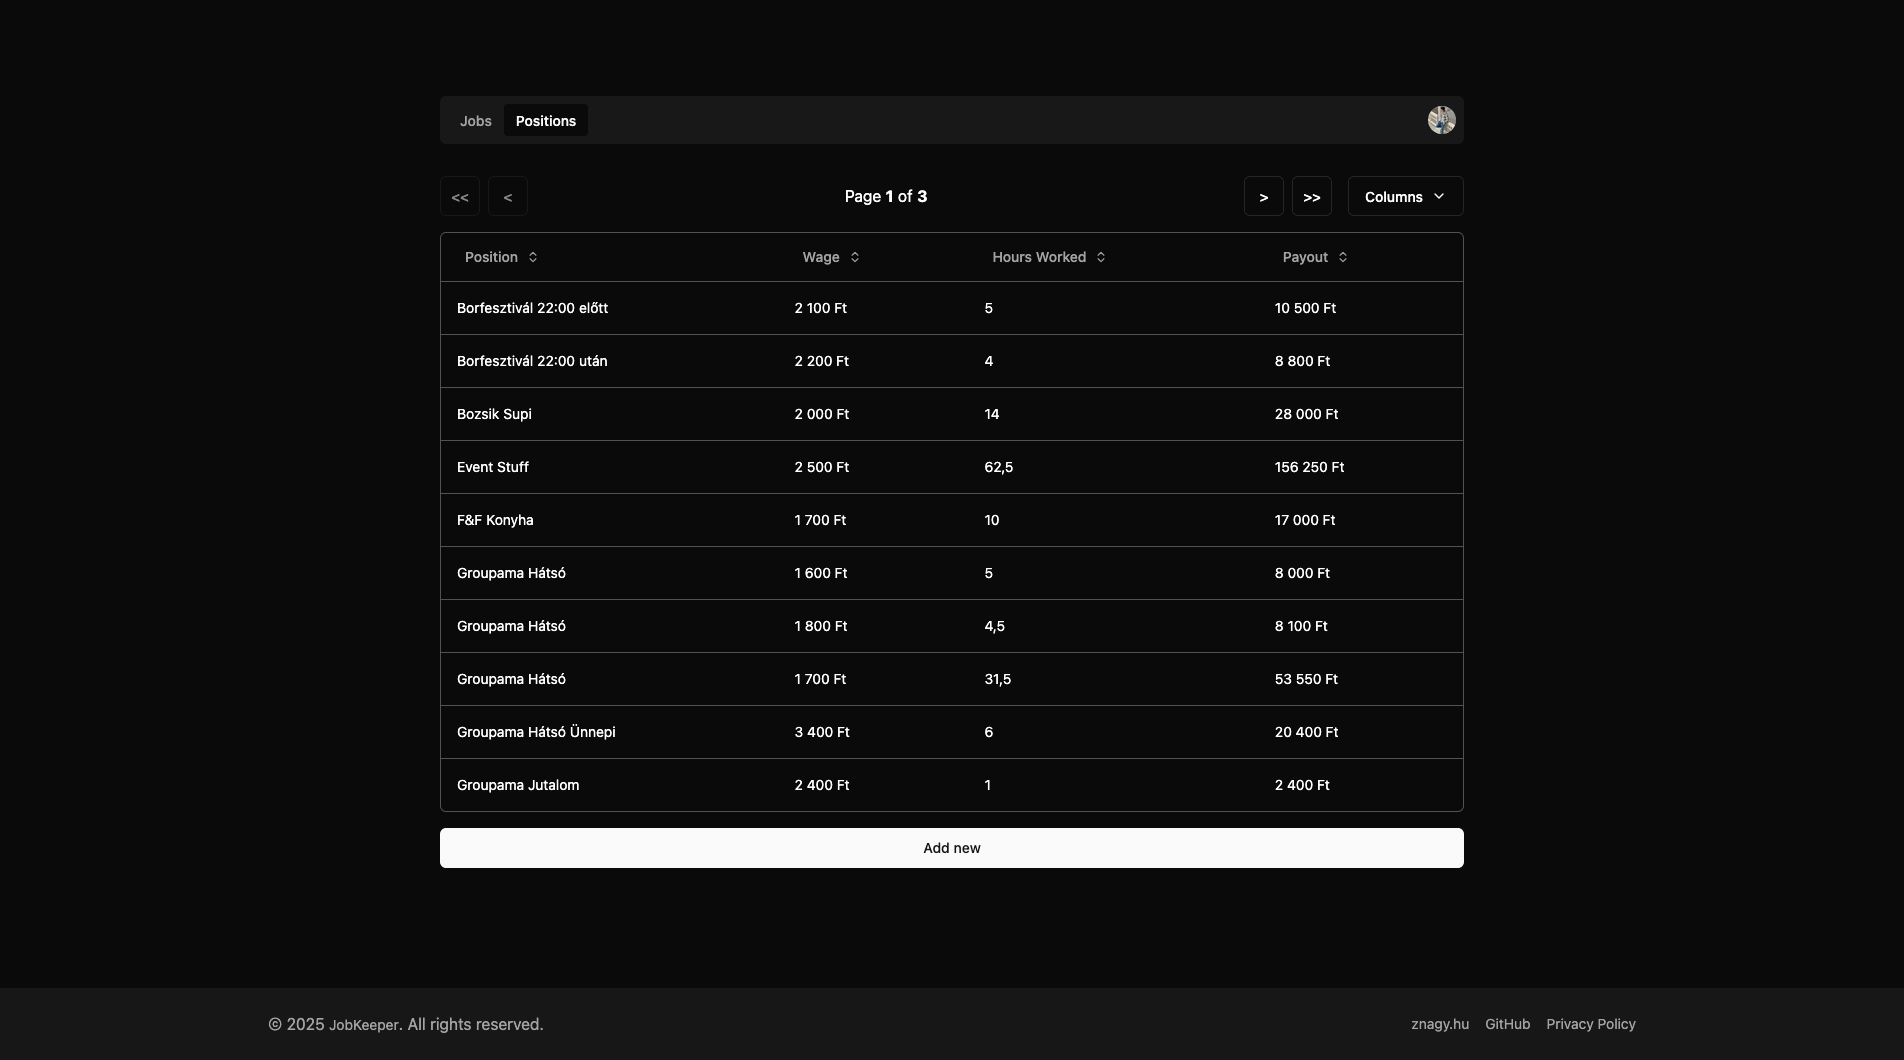
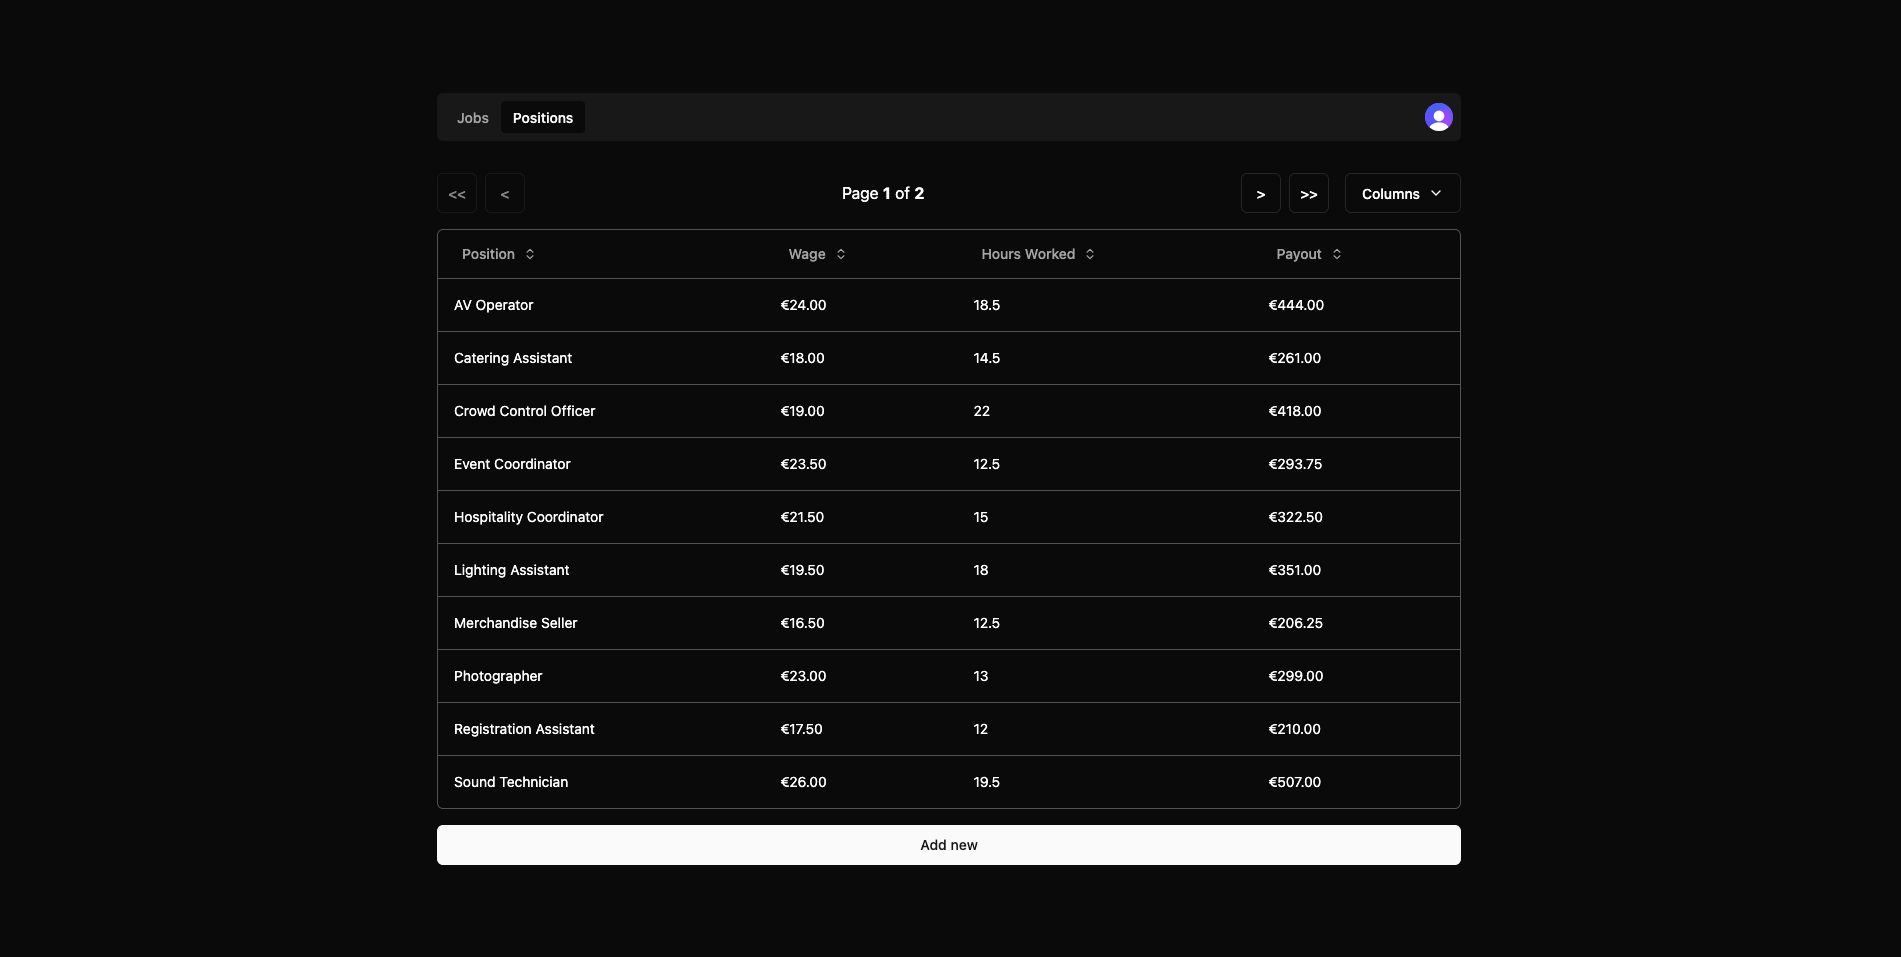
add preview images with mock data and test user

diff --git a/web/src/app/home/dashboard-preview.tsx b/web/src/app/home/dashboard-preview.tsx
@@ -30,7 +30,7 @@ export const DashboardPreview: React.FC = () => (
               alt="JobKeeper Jobs Dashboard showing a table with job entries including dates, locations, events, positions, wages, hours worked, and payouts"
               width={1600}
               height={900}
-              className="h-auto w-full"
+              className="aspect-video w-full"
               priority
             />
           </div>
@@ -53,7 +53,7 @@ export const DashboardPreview: React.FC = () => (
               alt="JobKeeper Positions Dashboard displaying a paginated table of different positions with wages, hours worked, and total payouts"
               width={1600}
               height={900}
-              className="h-auto w-full"
+              className="aspect-video w-full"
             />
           </div>
         </div>
